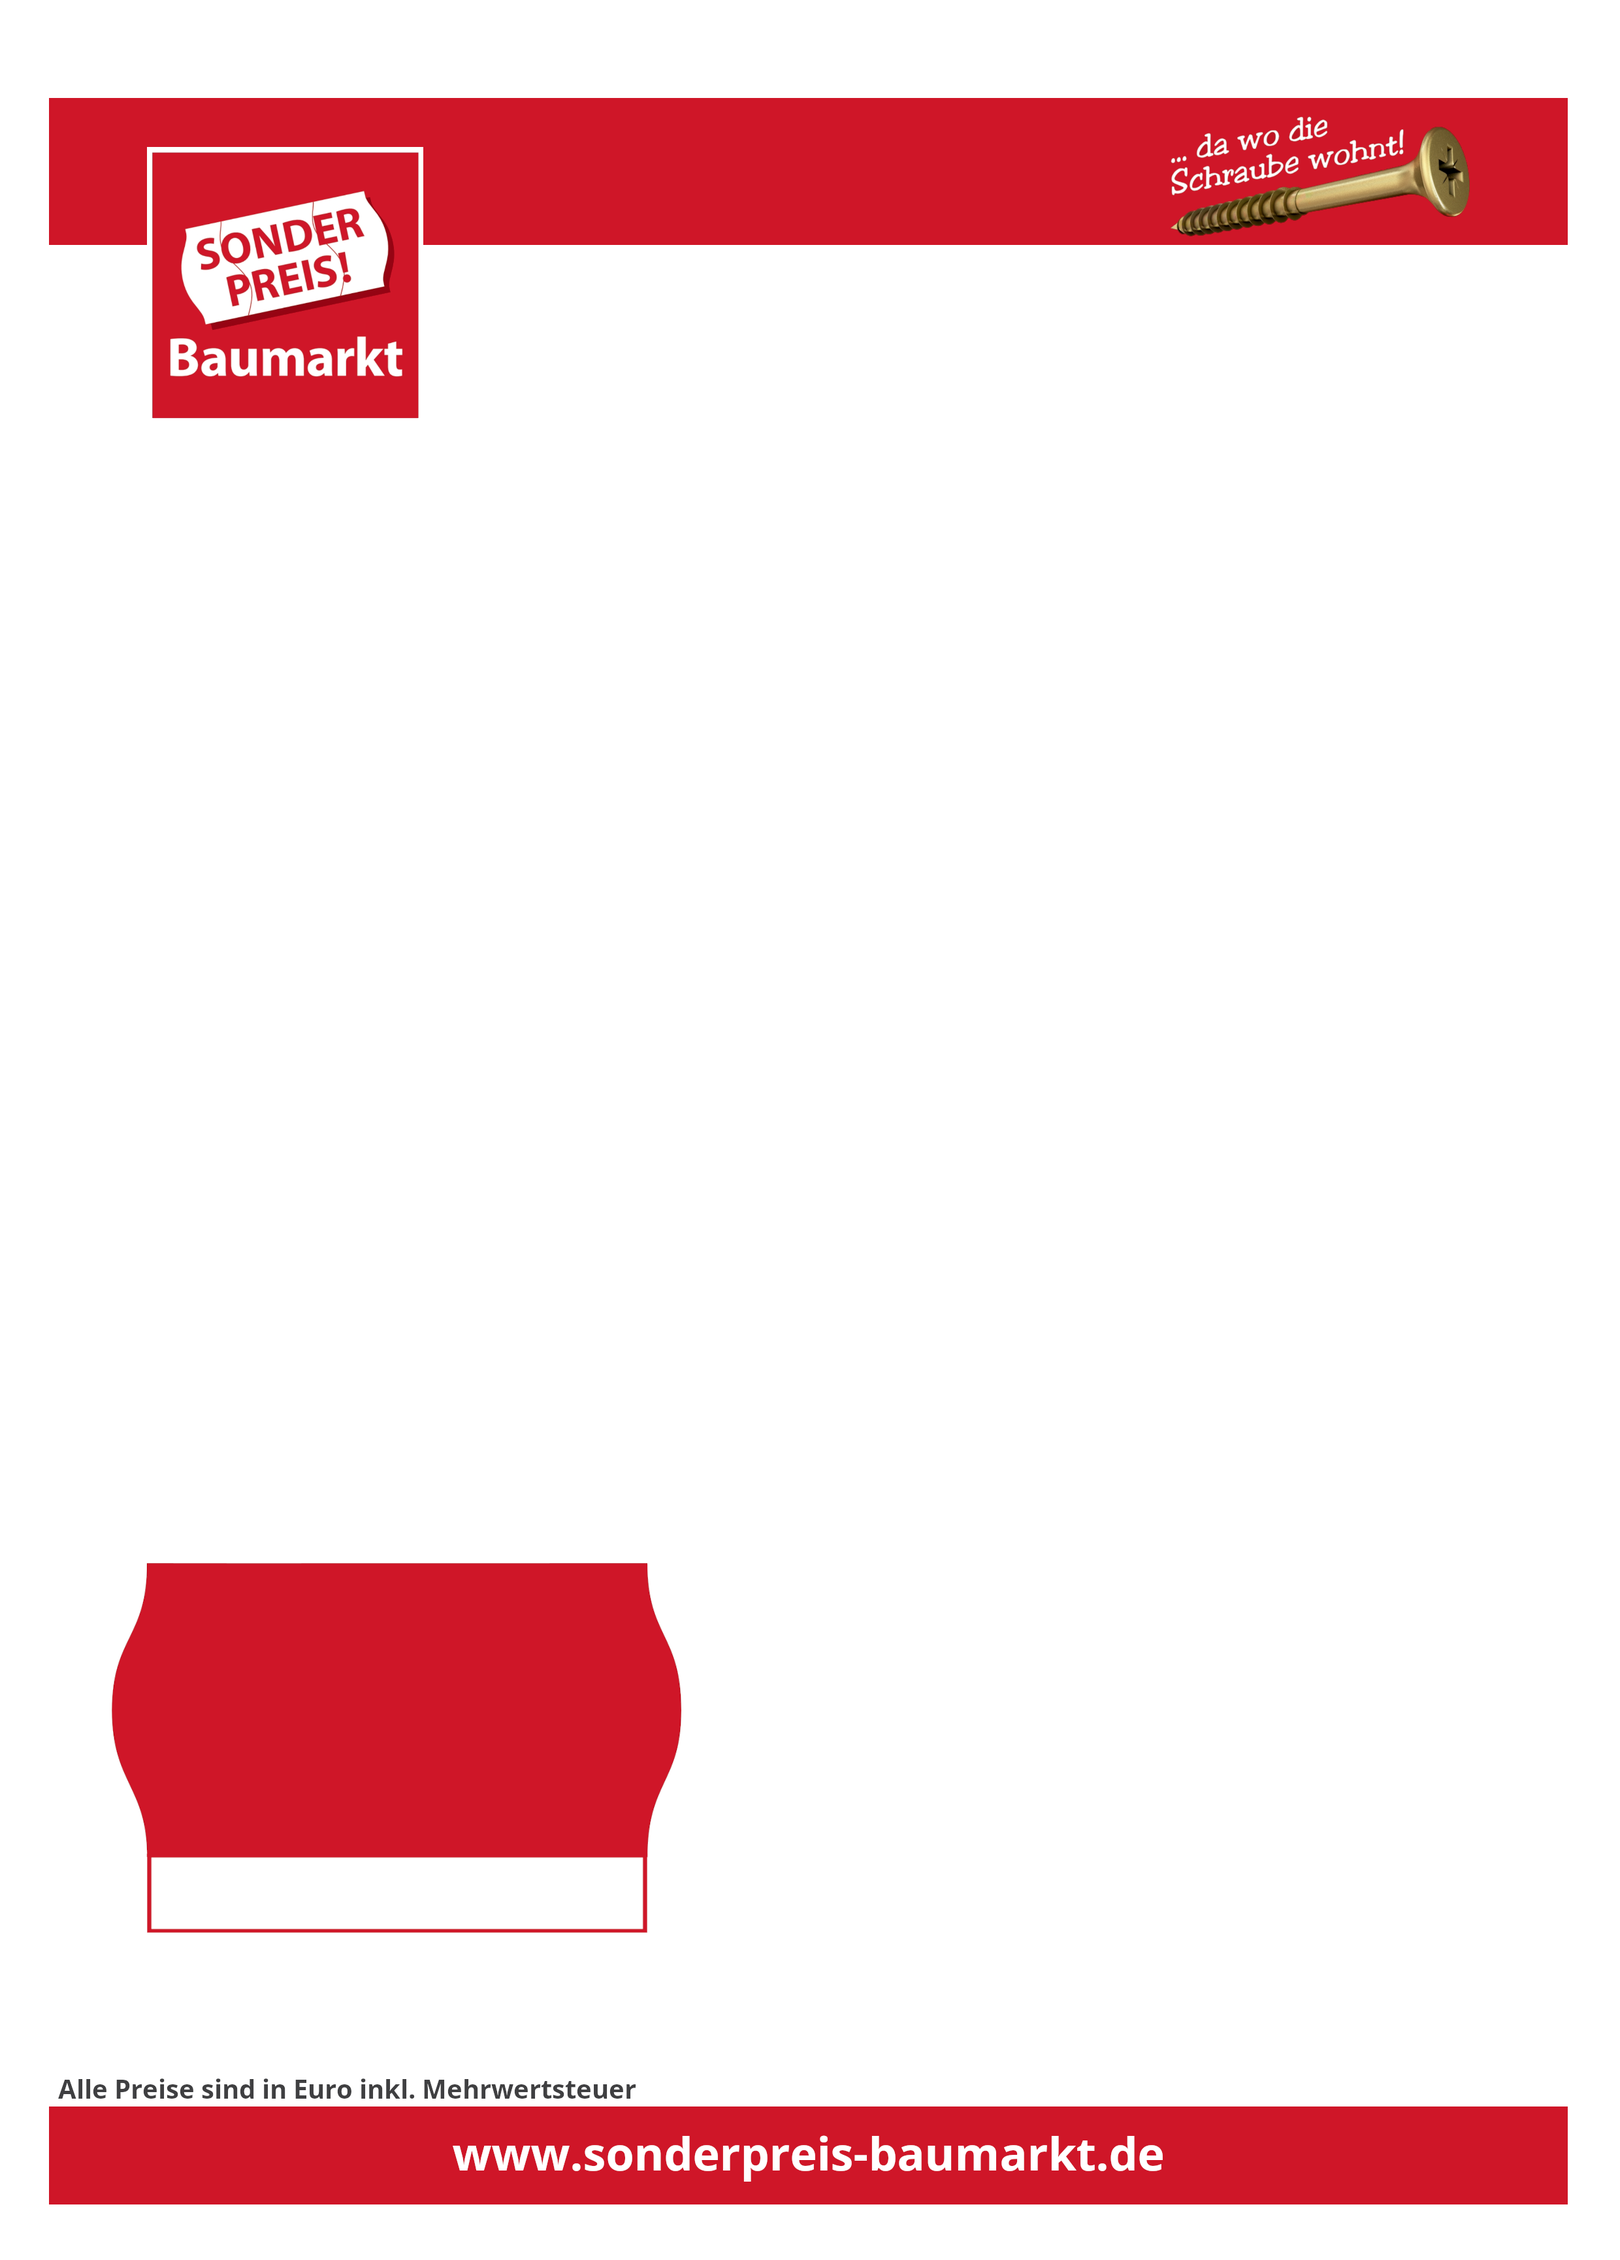
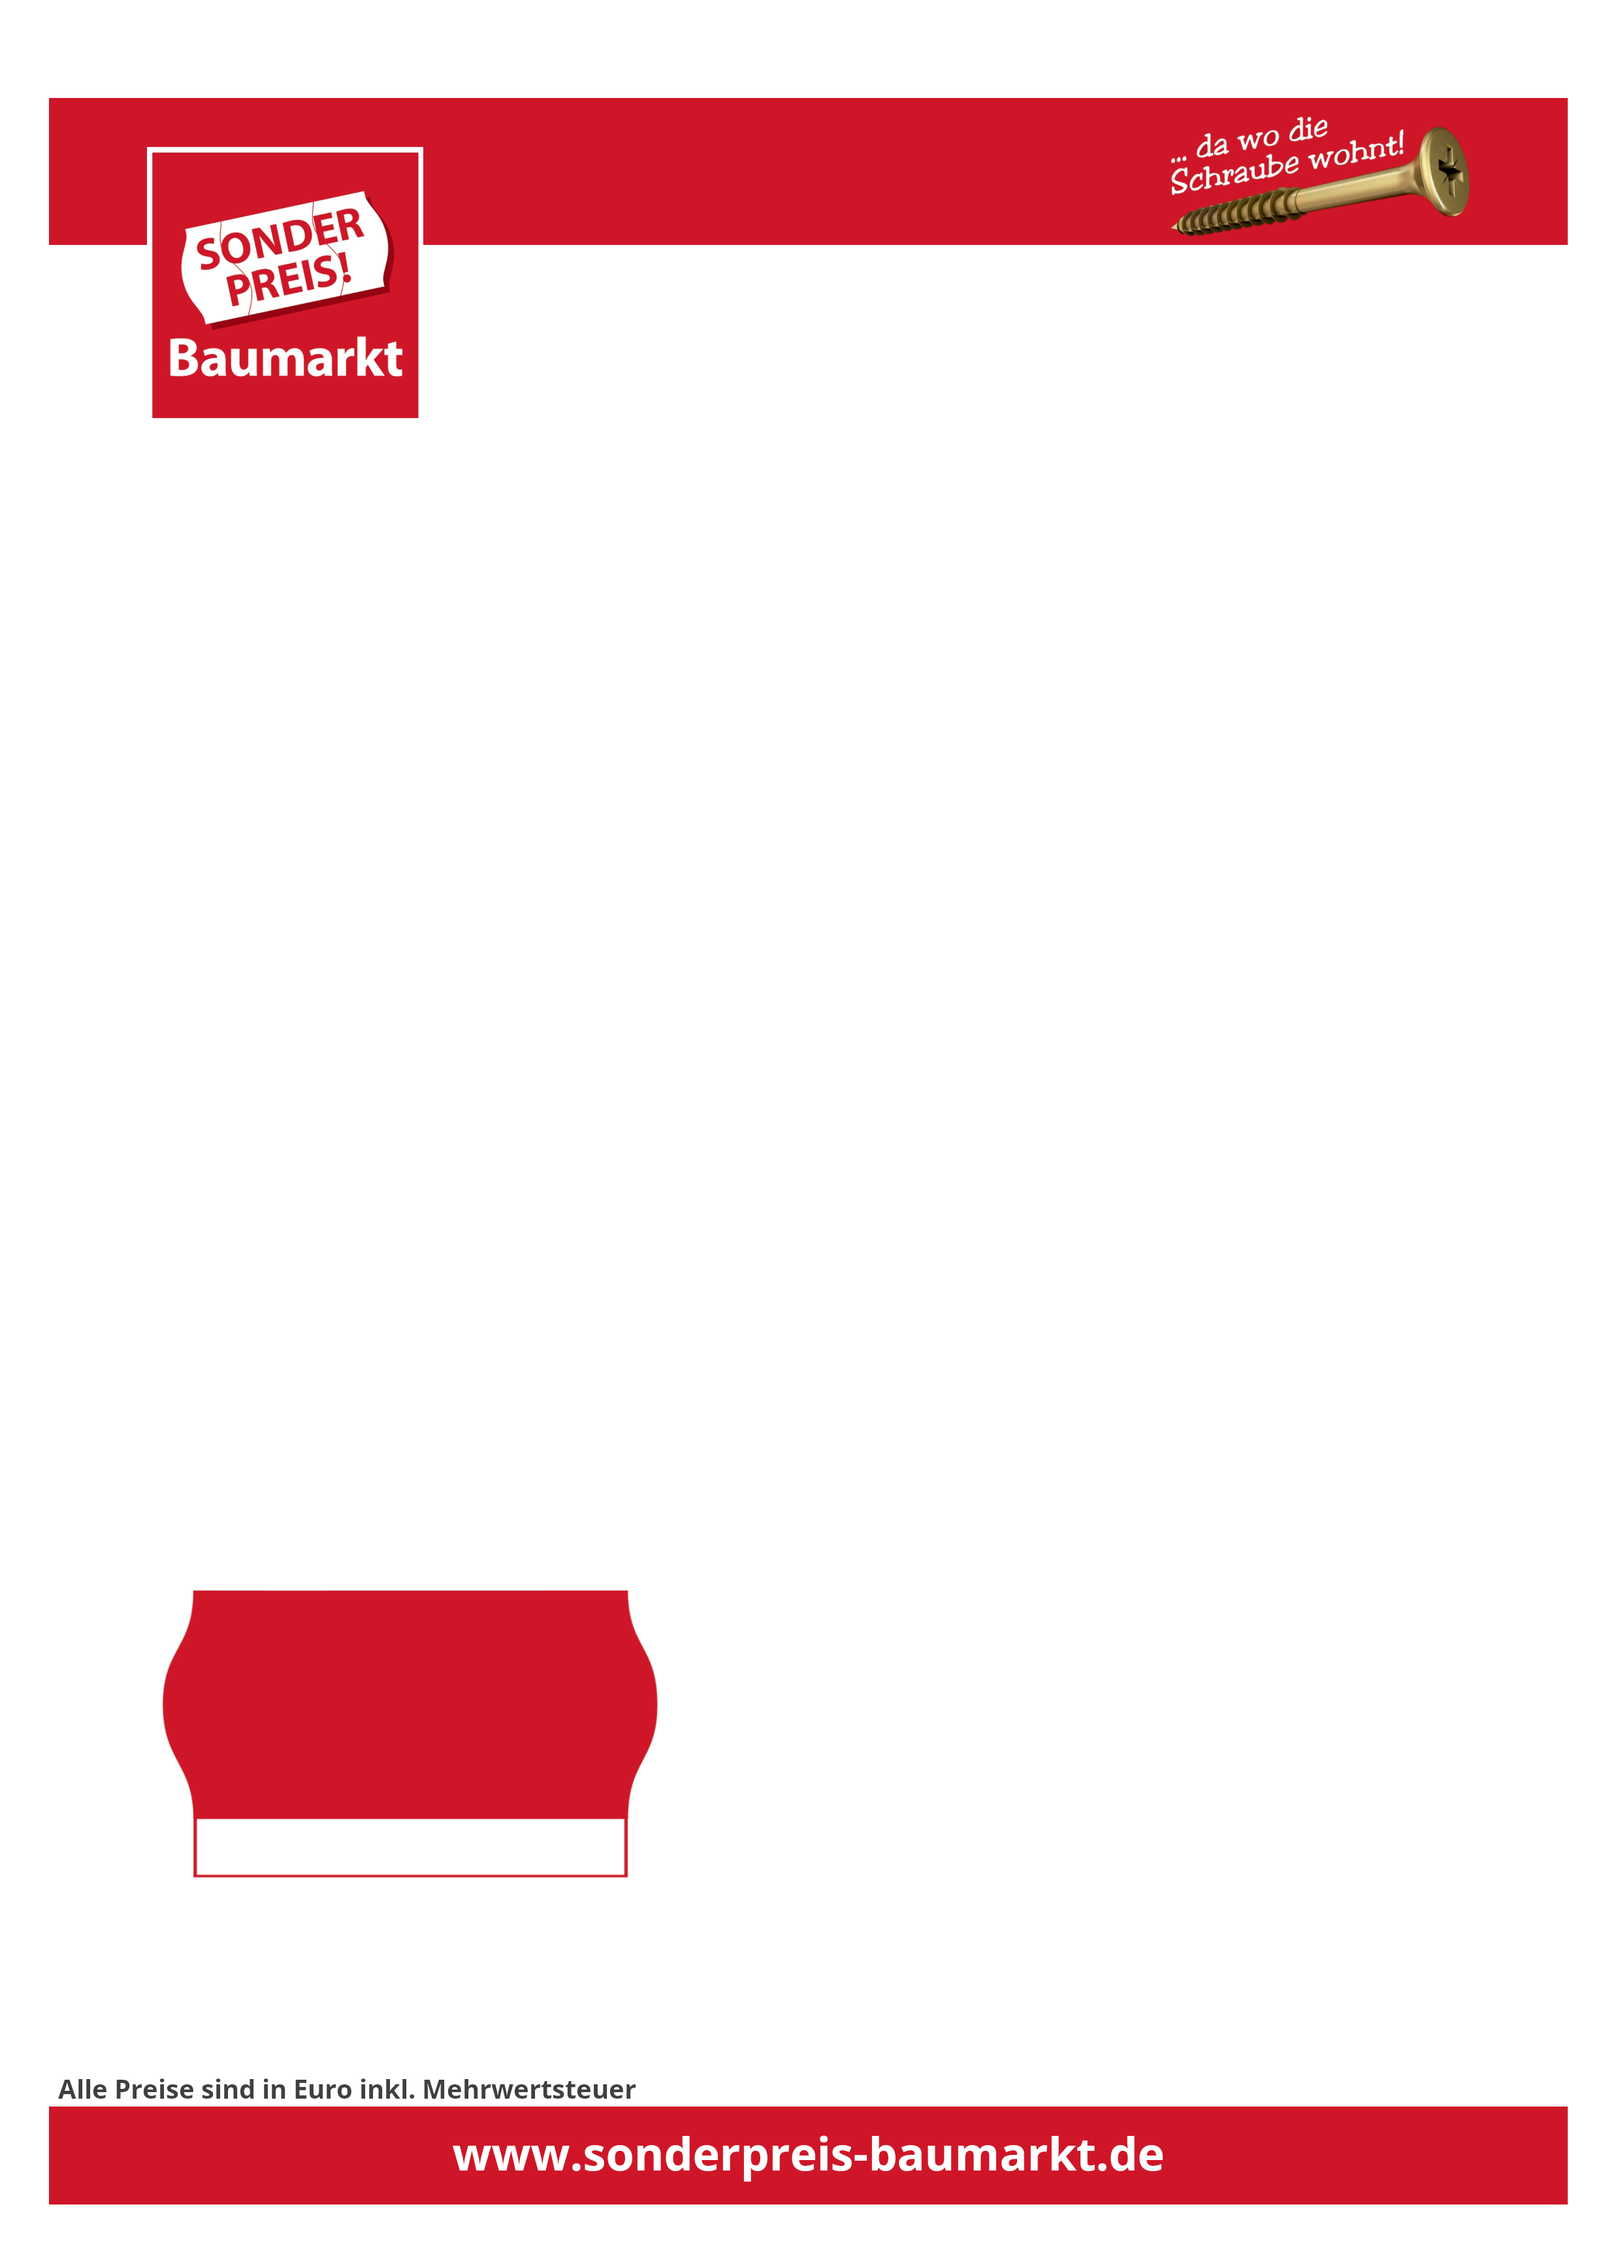
new background image

Changed region(s): [[0.0621, 0.6867, 0.4347, 0.8428]]

diff --git a/Interface/Css/PrintLayoutP.css b/Interface/Css/PrintLayoutP.css
@@ -47,7 +47,7 @@ img {
 
 .articleNr {
     top: 231mm;
-    right: 25mm;
+    left: 120mm;
     width: 60mm;
     height: 2mm;
     font-size: 5mm;
@@ -108,7 +108,7 @@ ul > li:before {
 
 #Barcode-Code128 {
     top: 210mm;
-    right: 25mm;
+    left: 120mm;
     width: 60mm;
     height: 20mm;
     position: absolute;
@@ -117,13 +117,13 @@ ul > li:before {
 
 .price {
     color: white !important;
-    top: 202mm;
-    left: 14.48mm;
-    width: 73.8mm;
-    height: 38.1mm;
-    font-size: 21mm;
+    top: 205mm;
+    left: 21mm;
+    width: 64mm;
+    height: 29mm;
+    font-size: 20mm;
     text-align: center;
-    line-height: 37mm;
+    line-height: 33.1mm;
     position: absolute;
     color: #3f3f41;
     font-weight: 900;
@@ -131,8 +131,8 @@ ul > li:before {
 #uvpTag {
     color: #cf1628 !important;
     white-space: pre;
-    top: 203mm;
-    left: 19mm;
+    top: 207mm;
+    left: 24.5mm;
     width: 140mm;
     height: 8mm;
     font-size: 8mm;
@@ -144,8 +144,8 @@ ul > li:before {
 #uvpPrice {
     color: #cf1628 !important;
     white-space: pre;
-    top: 209.9mm;
-    left: 19mm;
+    top: 212.9mm;
+    left: 24.5mm;
     width: 140mm;
     height: 14mm;
     font-size: 14mm;
@@ -156,11 +156,11 @@ ul > li:before {
 }
 .saved {
     color: #3f3f41 !important;
-    top: 239.5mm;
-    left: 19.64mm;
-    width: 63mm;
-    height: 9.23mm;
-    font-size: 8mm;
+    top: 233.5mm;
+    left: 25mm;
+    width: 56mm;
+    height: 7.5mm;
+    font-size: 7mm;
     text-align: center;
     line-height: 9mm;
     position: absolute;
